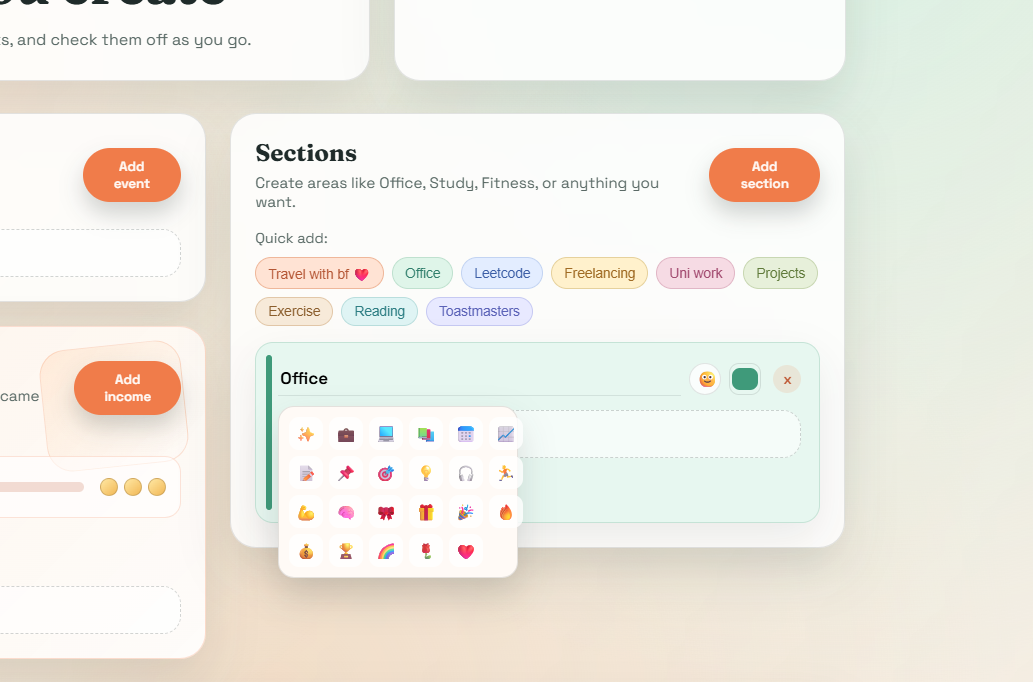
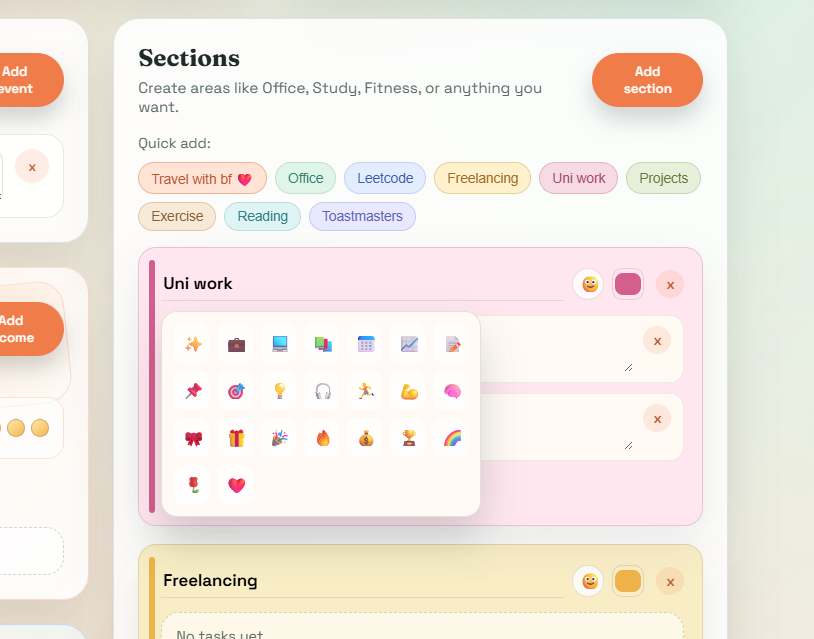
corrected colour picker padding

diff --git a/styles.css b/styles.css
@@ -580,6 +580,8 @@ body {
   box-shadow: 0 16px 40px rgba(31, 43, 42, 0.08);
   animation: rise 420ms ease both;
   animation-delay: calc(var(--i, 0) * 60ms);
+  overflow: visible;
+  z-index: 0;
 }
 
 .section-card::before {
@@ -598,6 +600,10 @@ body {
   justify-content: space-between;
   align-items: center;
   gap: 12px;
+}
+
+.section-card:focus-within {
+  z-index: 3;
 }
 
 .section-title-row {
@@ -669,20 +675,20 @@ body {
   position: absolute;
   top: calc(100% + 10px);
   left: 0;
-  width: min(240px, 80vw);
+  width: min(320px, 92vw);
   background: #fffaf6;
   border: 1px solid rgba(31, 43, 42, 0.12);
   border-radius: 16px;
-  padding: 10px;
+  padding: 12px;
   display: grid;
-  grid-template-columns: repeat(6, 1fr);
-  gap: 6px;
-  box-shadow: 0 18px 36px rgba(31, 43, 42, 0.16);
+  grid-template-columns: repeat(7, minmax(0, 1fr));
+  gap: 8px;
+  box-shadow: 0 22px 40px rgba(31, 43, 42, 0.18);
   opacity: 0;
   pointer-events: none;
   transform: translateY(6px) scale(0.98);
   transition: opacity 180ms ease, transform 180ms ease;
-  z-index: 5;
+  z-index: 10;
 }
 
 .emoji-panel.active {
@@ -695,8 +701,8 @@ body {
   border: none;
   background: rgba(255, 255, 255, 0.8);
   border-radius: 10px;
-  padding: 6px;
-  font-size: 1rem;
+  padding: 8px;
+  font-size: 1.05rem;
   cursor: pointer;
   transition: transform var(--transition), background var(--transition);
 }
